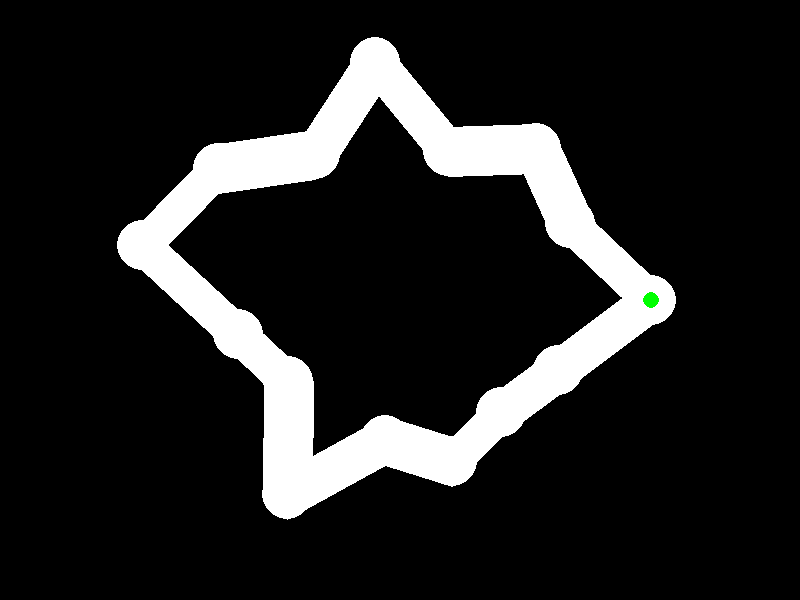
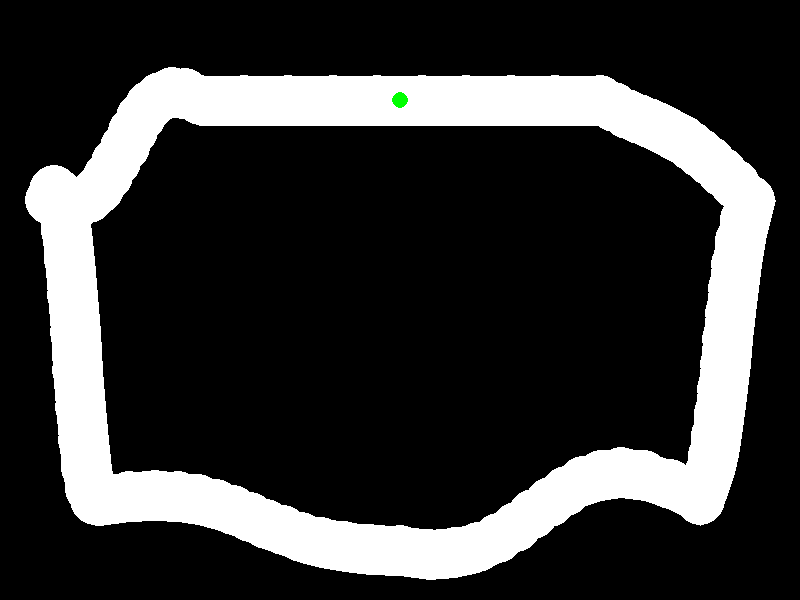
Add track generation, slightly smarter bois

diff --git a/create_track.py b/create_track.py
@@ -1,59 +1,74 @@
 import pygame
 import random
 import math
+import numpy as np
+import pickle
+
+def get_bezier_point(p0, p1, p2, p3, t):
+    px = (1-t)**3 * p0[0] + 3*(1-t)**2 * t * p1[0] + 3*(1-t) * t**2 * p2[0] + t**3 * p3[0]
+    py = (1-t)**3 * p0[1] + 3*(1-t)**2 * t * p1[1] + 3*(1-t) * t**2 * p2[1] + t**3 * p3[1]
+    return (px, py)
 
 def generate_track():
     pygame.init()
     width, height = 800, 600
-    # Creiamo la superficie principale
     surface = pygame.Surface((width, height))
-
-    BLACK = (0, 0, 0)
-    WHITE = (255, 255, 255)
-    GREEN = (0, 255, 0)
-
+    BLACK, WHITE, GREEN = (0,0,0), (255,255,255), (0,255,0)
     surface.fill(BLACK)
 
-    # --- PARAMETRI DEL CIRCUITO ---
-    center = (width // 2, height // 2)
-    points = []
-    num_points = 15 # Numero di "curve" principali
-    base_radius = 200
-    track_width = 50 # Larghezza della carreggiata
+    # 1. DEFINIAMO IL RETTILINEO DI PARTENZA/ARRIVO
+    # Lo spawn sarà a metà di questo rettilineo
+    start_line_y = 100
+    p_start = (200, start_line_y)  # Inizio rettilineo
+    p_end = (600, start_line_y)    # Fine rettilineo (direzione marcia: verso destra)
+    spawn_pos = (400, start_line_y)
 
-    # --- 1. GENERA PUNTI CASUALI PER UN CIRCUITO MORBIDO ---
-    for i in range(num_points):
-        angle = (i / num_points) * 2 * math.pi
-        # Rumore casuale per rendere la pista varia ma non spezzata
-        radius = base_radius + random.randint(-70, 70)
-        
-        x = int(center[0] + math.cos(angle) * radius)
-        y = int(center[1] + math.sin(angle) * radius)
-        points.append((x, y))
+    # 2. PUNTI DI CONTROLLO CASUALI (per il resto del circuito)
+    # Creiamo un "arco" di punti che partono da p_end e tornano a p_start
+    control_points = [p_end]
+    control_points.append((750, 200))
+    control_points.append((700, 500))
+    control_points.append((400, 550))
+    control_points.append((100, 500))
+    control_points.append((50, 200))
+    control_points.append(p_start)
 
-    # Chiudiamo il loop riportando all'inizio
-    points.append(points[0])
+    # 3. GENERAZIONE PUNTI PISTA (Bézier + Rettilineo)
+    track_points = []
+    
+    # Aggiungiamo il rettilineo iniziale manualmente per essere sicuri della direzione
+    for x in np.linspace(p_start[0], p_end[0], 10):
+        track_points.append((x, start_line_y))
 
-    # --- 2. DISEGNA LA PISTA BIANCA ---
-    # Usiamo un trucco: disegniamo cerchi su ogni punto e linee spesse tra loro
-    # per evitare che rimangano "buchi" neri nelle curve strette.
-    for i in range(len(points) - 1):
-        p1 = points[i]
-        p2 = points[i+1]
-        # Disegna il segmento
-        pygame.draw.line(surface, WHITE, p1, p2, track_width)
-        # Disegna il "giunto" circolare per smussare l'angolo
-        pygame.draw.circle(surface, WHITE, p1, track_width // 2)
+    # Curve di Bézier per il resto
+    for i in range(len(control_points)-1):
+        p0 = control_points[i]
+        p3 = control_points[i+1]
+        # Punti di controllo intermedi "morbidi"
+        p1 = (p0[0] + (p3[0]-p0[0])*0.5, p0[1] + random.randint(-100,100))
+        p2 = (p3[0] - (p3[0]-p0[0])*0.5, p3[1] + random.randint(-100,100))
+        for t in np.linspace(0, 1, 15):
+            track_points.append(get_bezier_point(p0, p1, p2, p3, t))
 
-    # --- 3. POSIZIONA LO SPAWN VERDE ---
-    # Lo mettiamo sul primo punto generato (che è sicuramente sulla pista)
-    spawn_pos = points[0]
+    # 4. DISEGNA PISTA
+    track_width = 50
+    for i in range(len(track_points)-1):
+        pygame.draw.line(surface, WHITE, track_points[i], track_points[i+1], track_width)
+        pygame.draw.circle(surface, WHITE, (int(track_points[i][0]), int(track_points[i][1])), track_width//2)
+
+    # 5. CHECKPOINTS AUTOMATICI
+    checkpoints = []
+    for i in range(0, len(track_points), 12):
+        checkpoints.append((int(track_points[i][0]), int(track_points[i][1])))
+    
+    with open("checkpoints.pkl", "wb") as f:
+        pickle.dump(checkpoints, f)
+
+    # 6. SPAWN VERDE (esattamente sul rettilineo)
     pygame.draw.circle(surface, GREEN, spawn_pos, 8)
 
-    # --- 4. SALVA L'IMMAGINE ---
     pygame.image.save(surface, "circuit.png")
-    print(f"Circuito creato con successo! Spawn trovato a: {spawn_pos}")
-
+    print(f"Circuito con rettilineo creato! Direzione: DESTRA (0 gradi)")
     pygame.quit()
 
 if __name__ == "__main__":

diff --git a/training.py b/training.py
@@ -29,6 +29,8 @@ class Brain:
         self.spawn_pos = spawn_pos
         self.base_angle = base_angle
         
+        self.next_cp = 0
+        
         # Inizializza i pesi: 5 sensori in ingresso, 2 decisioni in uscita (sterzo, velocità)
         if weights is None:
             self.weights = np.random.uniform(-1, 1, (SENSOR_COUNT, 2))
@@ -81,7 +83,7 @@ def get_sensors(pos, angle, track):
 
 
 # --- SIMULAZIONE ---
-def run_simulation(population, track, screen, clock, font, generation, spawn_pos, base_angle):
+def run_simulation(population, track, screen, clock, font, generation, spawn_pos, base_angle, checkpoints):
     running = True
     finish_count = 0 # Conta quanti hanno finito il giro
     frame_count = 0  # Timer della simulazione
@@ -99,7 +101,7 @@ def run_simulation(population, track, screen, clock, font, generation, spawn_pos
         alive_count = 0
 
         for brain in population:
-            if not brain.alive or brain.completed:
+            if not brain.alive:
                 continue
 
             alive_count += 1
@@ -119,6 +121,22 @@ def run_simulation(population, track, screen, clock, font, generation, spawn_pos
             brain.score += old_pos.distance_to(brain.pos)
             # Penale tempo: più tempo passi in pista, meno punti fai
             brain.score -= 0.1 
+            
+            target_cp = checkpoints[brain.next_cp]
+            dist_to_cp = brain.pos.distance_to(pygame.Vector2(target_cp))
+            
+            if dist_to_cp < 50: 
+                brain.score += 5000 
+                brain.next_cp += 1 
+
+                # Se ha superato l'ultimo checkpoint della lista
+                if brain.next_cp >= len(checkpoints):
+                    brain.completed = True
+                    # Calcola bonus velocità basato sul tempo
+                    bonus_velocita = max(1000, 10000 - frame_count * 2)
+                    brain.score += bonus_velocita
+                    print(f"PALLINO ARRIVATO! Gen: {generation} | Tempo: {frame_count}")
+                    return
 
             # --- LOGICA TRAGUARDO (Classifica) ---
             dist_to_start = brain.pos.distance_to(spawn_pos)
@@ -180,6 +198,14 @@ def main():
     track = pygame.image.load("circuit.png").convert()
     track = pygame.transform.scale(track, (WIDTH, HEIGHT))
     
+    try:
+        with open("checkpoints.pkl", "rb") as f:
+            checkpoints = pickle.load(f)
+    except FileNotFoundError:
+        print("Errore: esegui prima create_track.py per generare i checkpoint!")
+        return
+
+    
     spawn_pos = find_spawn(track)
     base_angle = -135
     
@@ -192,7 +218,7 @@ def main():
         population[0].weights = saved_weights
 
     while True:
-        run_simulation(population, track, screen, clock, font, generation, spawn_pos, base_angle)
+        run_simulation(population, track, screen, clock, font, generation, spawn_pos, base_angle, checkpoints)
         # Salva il migliore di ogni generazione automaticamente
         save_model(population[0]) 
         population = evolve(population, spawn_pos, base_angle)
